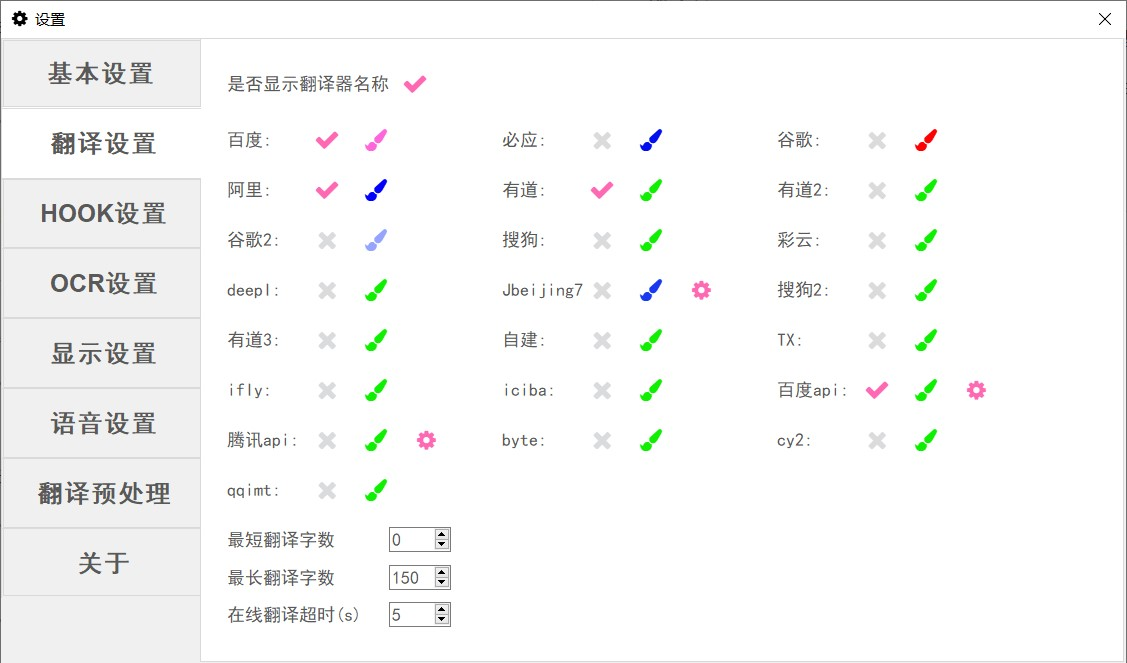
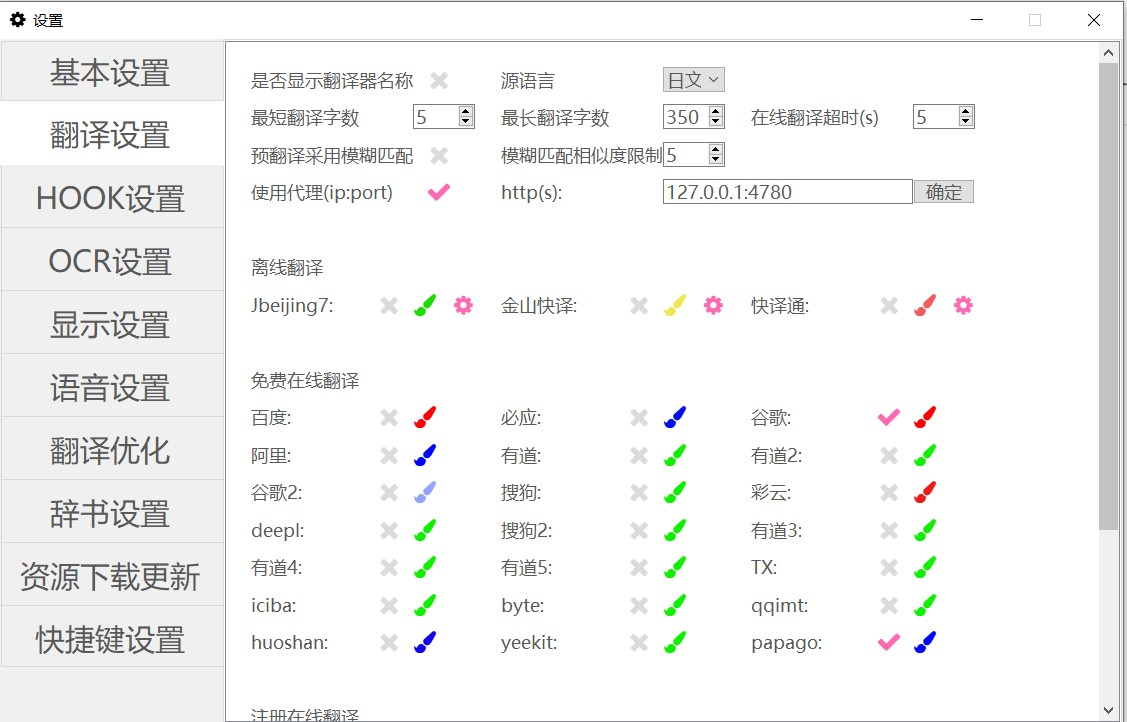
1

diff --git a/settings.md b/settings.md
@@ -27,7 +27,7 @@
 
 &emsp;&emsp;**免费在线翻译** 支持使用百度、必应、谷歌、阿里、有道、彩云、搜狗、DeepL、金山、讯飞、腾讯、字节、火山、papago、yeekit进行翻译
 
-&emsp;&emsp;**注册在线翻译** 支持使用用户注册的百度、腾讯、有道、小牛、彩云、火山翻译密钥翻译
+&emsp;&emsp;**注册在线翻译** 支持使用用户注册的百度、腾讯、有道、小牛、彩云、火山、deepl翻译密钥翻译
 
 &emsp;&emsp;**预翻译** 支持读取人工翻译和聚合机器预翻译文件 
 
@@ -37,7 +37,11 @@
 
 其中，离线翻译&注册在线翻译&预翻译需要在使用前点击设置按钮进行设置。
 
-<div align="center"><img src='./docpics/trans.jpg'></div>
+对于谷歌翻译&deepl，可能需要代理才能访问，需要在输入代理后点击确定，并开启使用代理。
+
+对于预翻译，可以采用模糊匹配（主要对于OCR模式比较有效）。
+
+<div align="center"><img src='./docpics/6.jpg'></div>
 
 
 ## HOOK设置

diff --git a/README.md b/README.md
@@ -29,7 +29,7 @@
 
 &emsp;&emsp;**免费在线翻译** 支持使用百度、必应、谷歌、阿里、有道、彩云、搜狗、DeepL、金山、讯飞、腾讯、字节、火山、papago、yeekit进行翻译
 
-&emsp;&emsp;**注册在线翻译** 支持使用用户注册的百度、腾讯、有道、小牛、彩云、火山翻译密钥翻译
+&emsp;&emsp;**注册在线翻译** 支持使用用户注册的百度、腾讯、有道、小牛、彩云、火山、deepl翻译密钥翻译
 
 &emsp;&emsp;**预翻译** 支持读取人工翻译和聚合机器预翻译文件
 
